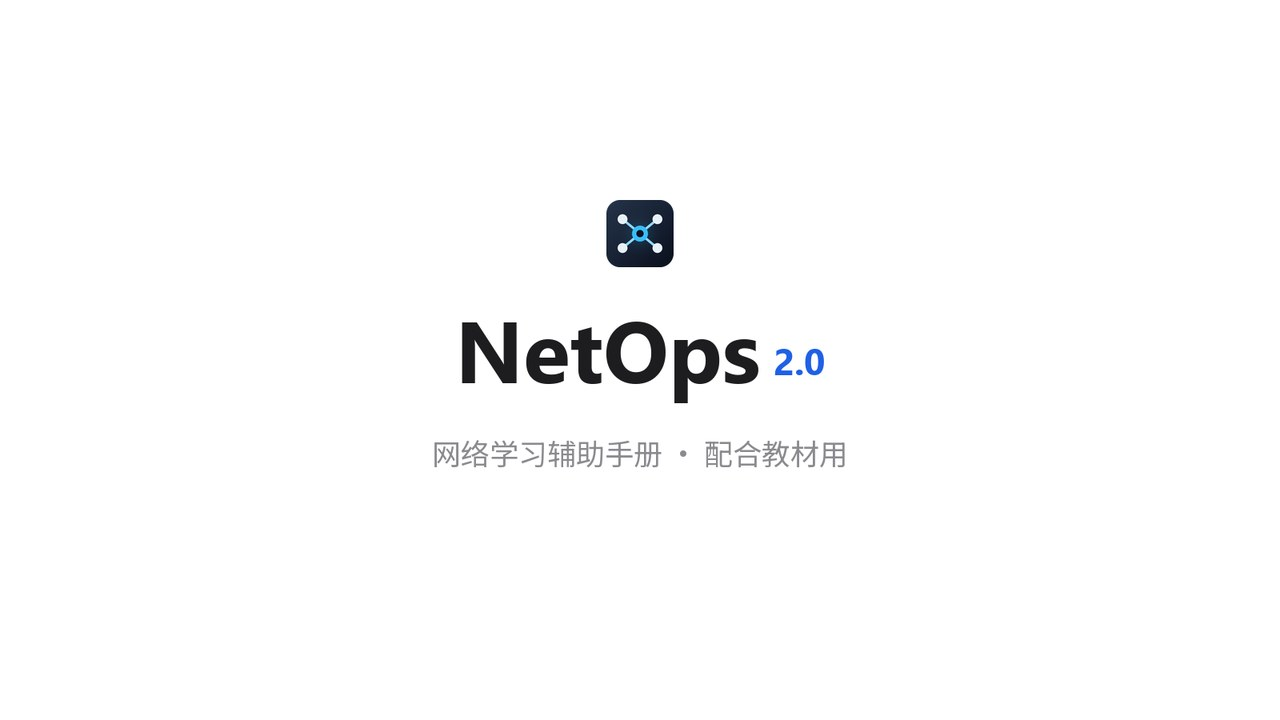
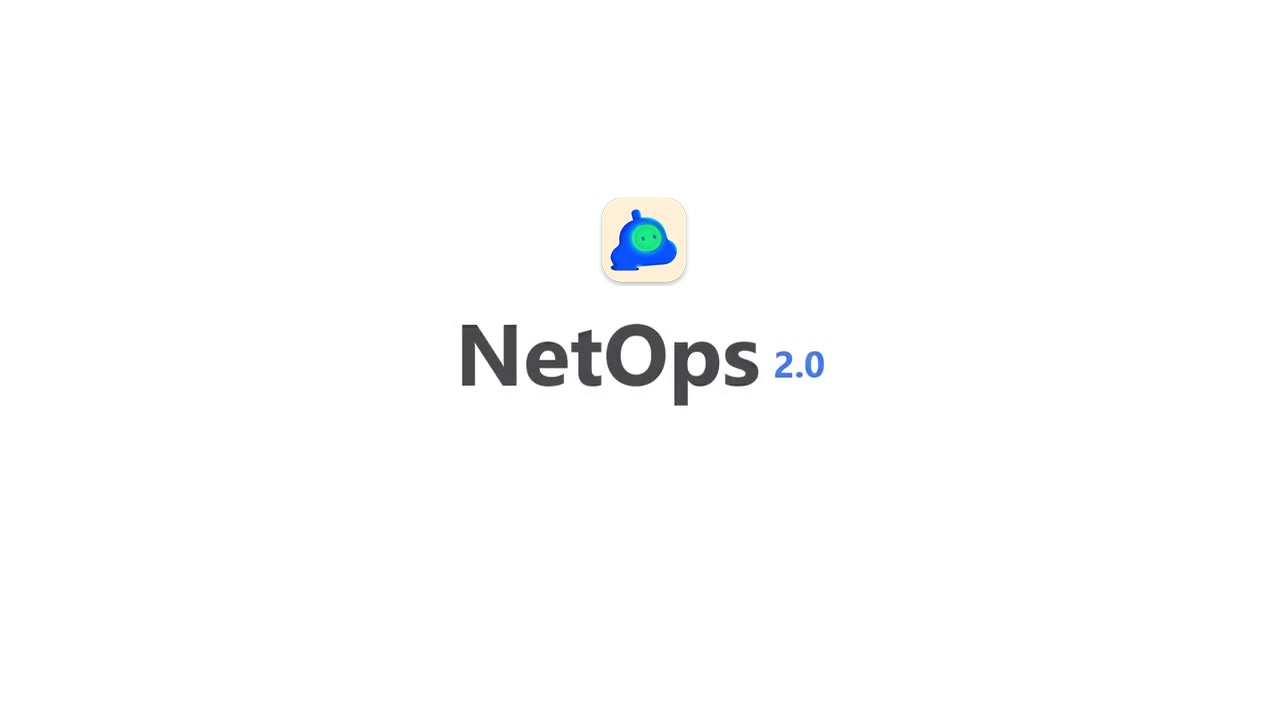
去卡片介绍视频胶囊（视频已在卡上），NetOps 海报重抽为新版标题帧（新图标），移除 playCardVideo（SW v77）

Changed region(s): [[0.3438, 0.4278, 0.6562, 0.55], [0.3438, 0.6111, 0.6562, 0.6722], [0.4688, 0.275, 0.5625, 0.3972]]

diff --git a/index.html b/index.html
@@ -320,15 +320,8 @@
               <i data-lucide="download" class="w-3.5 h-3.5" data-page-node-id="O4d1GRFv5I3d22tbiPfm1E"></i>
               <span data-page-node-id="AJKGKfoaSM3P4AT0qzH3nz">网盘下载<span data-pwd data-page-node-id="GC2es3wI7Cxg8IuJBVF9rs"> (提取码: cens)</span></span>
             </a>
-            <button
-              onclick="playCardVideo('filebutler')"
-              class="btn-secondary px-4 py-2 text-xs bg-slate-100 hover:bg-slate-200 dark:bg-white/10 dark:hover:bg-white/20 text-[#1d1d1f] dark:text-white flex items-center gap-1.5 cursor-pointer"
-            >
-              <svg xmlns="http://www.w3.org/2000/svg" viewBox="0 0 24 24" fill="currentColor" class="w-3.5 h-3.5"><path d="M8 5.14v14l11-7-11-7z"></path></svg>
-              <span>介绍视频 · 38 秒</span>
-            </button>
-            <a 
-              href="https://github.com/7SteveJohn/FileButler/releases" 
+            <a
+              href="https://github.com/7SteveJohn/FileButler/releases"
               data-link="releases"
               target="_blank" 
               rel="noopener noreferrer"
@@ -405,15 +398,8 @@
               <i data-lucide="download" class="w-3.5 h-3.5" data-page-node-id="R1gbZ2tWemOzNoWsRuGjX1"></i>
               <span data-page-node-id="1wdvl7HDvWiZ1GoTLnOVdu">网盘下载<span data-pwd data-page-node-id="NrboFVWcvMPU0wHhlSzMgC"> (提取码: fyii)</span></span>
             </a>
-            <button
-              onclick="playCardVideo('netops-handbook')"
-              class="btn-secondary px-4 py-2 text-xs bg-slate-100 hover:bg-slate-200 dark:bg-white/10 dark:hover:bg-white/20 text-[#1d1d1f] dark:text-white flex items-center gap-1.5 cursor-pointer"
-            >
-              <svg xmlns="http://www.w3.org/2000/svg" viewBox="0 0 24 24" fill="currentColor" class="w-3.5 h-3.5"><path d="M8 5.14v14l11-7-11-7z"></path></svg>
-              <span>介绍视频 · 38 秒</span>
-            </button>
-            <a 
-              href="https://github.com/7SteveJohn/netops-handbook/releases" 
+            <a
+              href="https://github.com/7SteveJohn/netops-handbook/releases"
               data-link="releases"
               target="_blank" 
               rel="noopener noreferrer"
@@ -483,13 +469,6 @@
 
             <!-- 操作胶囊组 -->
             <div class="flex flex-wrap items-center gap-3 pt-4">
-              <button
-                onclick="playCardVideo('fluxion')"
-                class="btn-primary px-5 py-2 text-xs flex items-center gap-1.5 cursor-pointer"
-              >
-                <svg xmlns="http://www.w3.org/2000/svg" viewBox="0 0 24 24" fill="currentColor" class="w-3.5 h-3.5"><path d="M8 5.14v14l11-7-11-7z"></path></svg>
-                <span>介绍视频 · 38 秒</span>
-              </button>
               <button
                 onclick="openProjectModal('fluxion')"
                 class="text-xs hover:underline cursor-pointer font-medium"

diff --git a/js/app.js b/js/app.js
@@ -258,15 +258,6 @@ window.closeProjectModal = function() {
   animateModalClose(document.getElementById('project-modal'));
 };
 
-// 滚动到卡片上的介绍视频并播放（用户点击手势后允许有声播放）
-window.playCardVideo = function(id) {
-  const v = document.getElementById('video-' + id);
-  if (!v) return;
-  v.scrollIntoView({ behavior: 'smooth', block: 'center' });
-  const p = v.play();
-  if (p && p.catch) p.catch(() => {});
-};
-
 /* ============================================================
    3. 文字内容模块：技术手记 / 创作 / 随笔
       （共用 ARTICLES_DATA，按 section 字段路由，空模块自动隐藏）

diff --git a/sw.js b/sw.js
@@ -6,7 +6,7 @@
  * - 其余同源/静态资源：缓存优先 + 后台更新（stale-while-revalidate）
  * ⚠ 每次发布改动静态资源后，把 CACHE 版本号 +1，旧缓存会在 activate 阶段自动清理。
  */
-const CACHE = 'sevenjohn-v76';
+const CACHE = 'sevenjohn-v77';
 const CORE = [
   './',
   'index.html',
